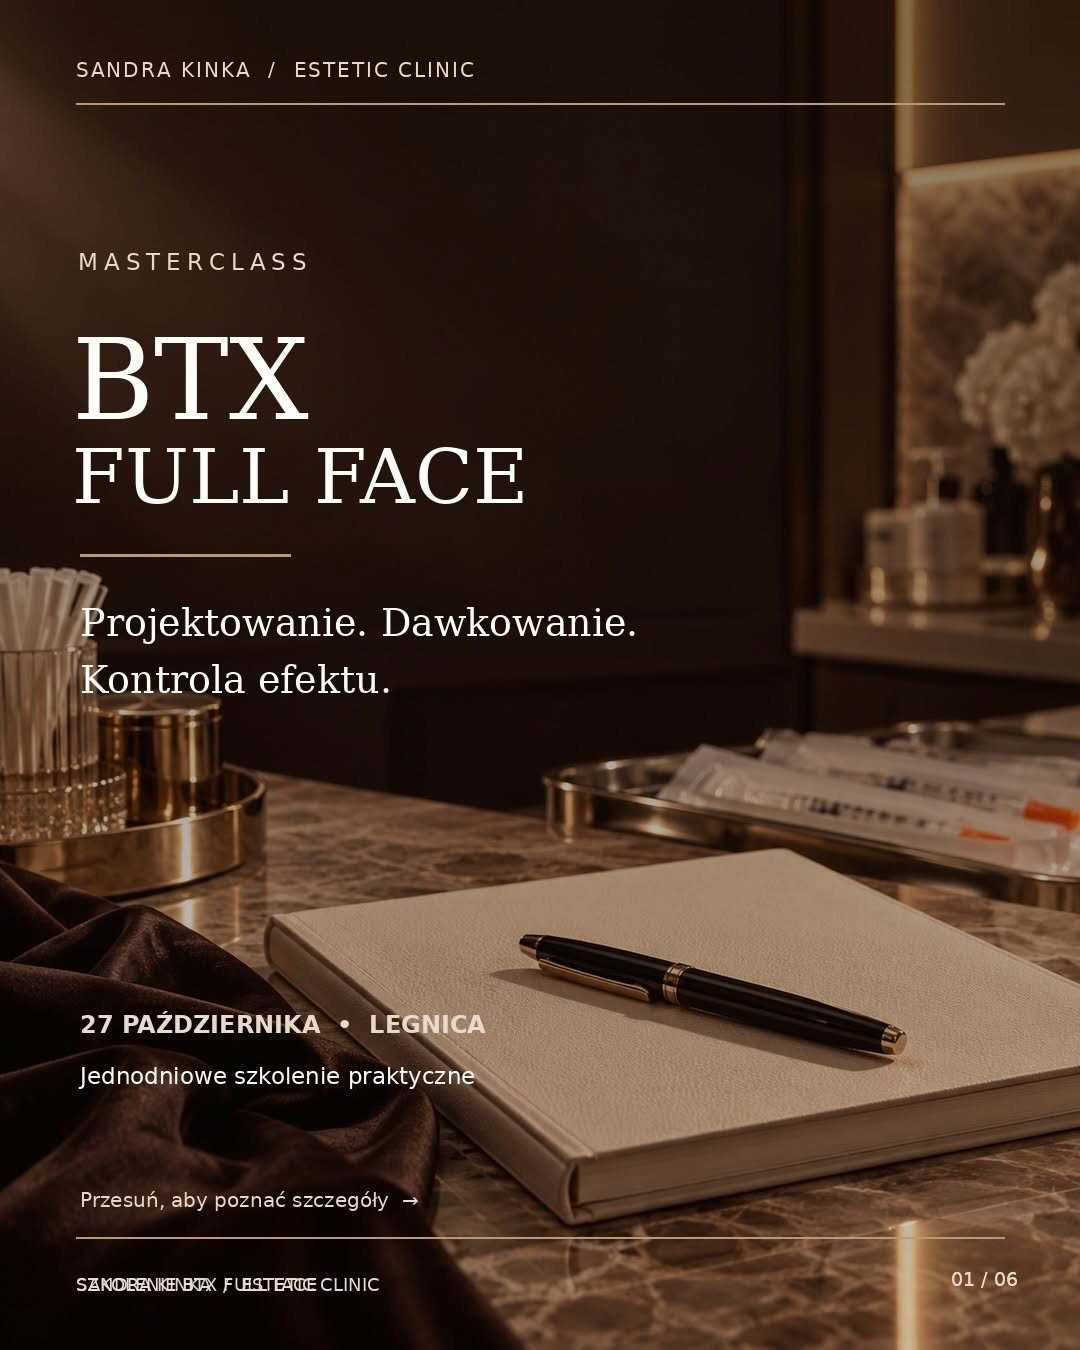
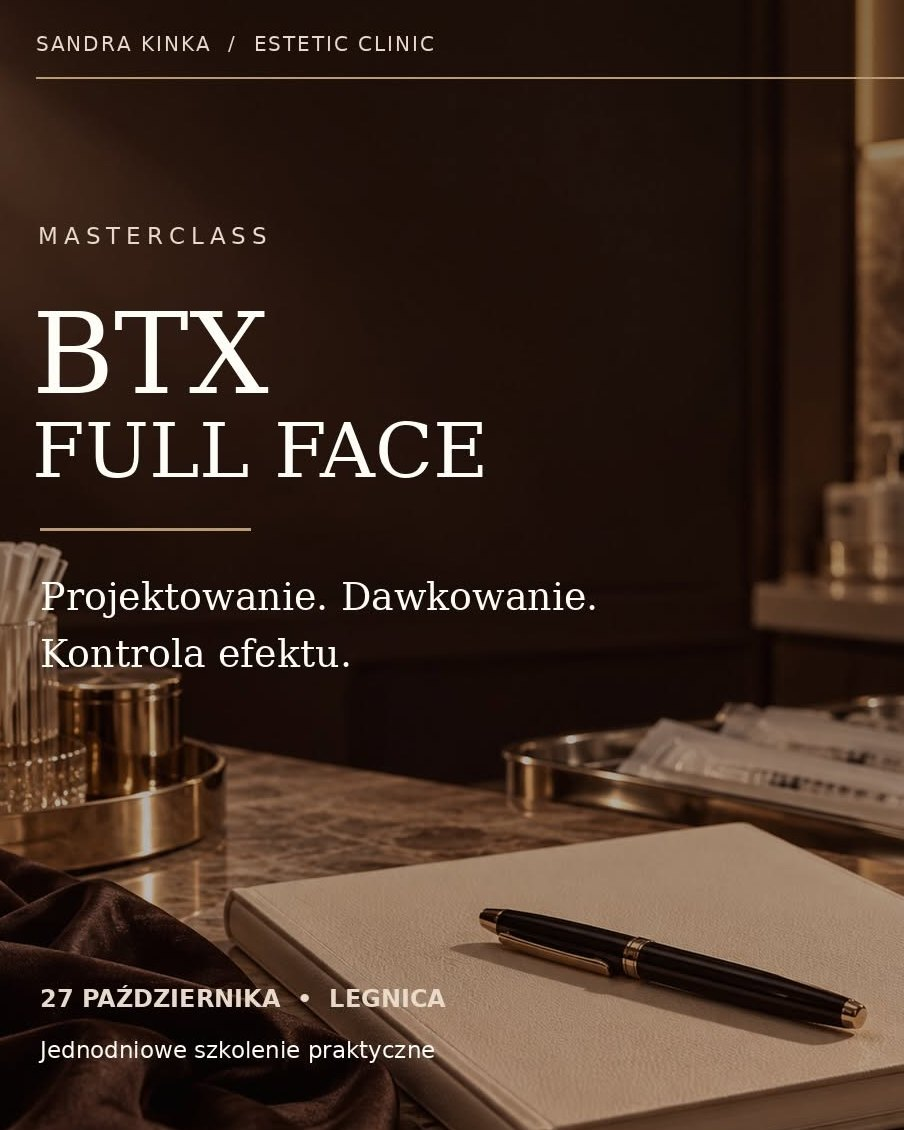
Start bez zdjęć, poprawiona grafika BTX, profesjonalne zdjęcie w przebiegu szkolenia

diff --git a/index.html b/index.html
@@ -157,9 +157,16 @@ section{padding:64px 0}
 .big-title{font-size:clamp(3.1rem,13.5vw,8.2rem);font-weight:400;line-height:.92;letter-spacing:-.03em}
 .big-title .l2{display:block;font-style:italic;font-weight:400;color:var(--milk);padding-left:.55em}
 .s-lead{margin:24px 0 0;font-size:1.1rem;max-width:31em}
-.s-photos{display:grid;grid-template-columns:1fr .66fr;gap:14px;align-items:end;padding:0 12px 12px 0}
-.s-photos .p1{aspect-ratio:4/5;border-radius:2px;box-shadow:12px 12px 0 -1px var(--cream), 12px 12px 0 0 var(--brass)}
-.s-photos .p2{aspect-ratio:3/4;border-radius:2px;margin-bottom:-12px}
+.s-emblem{position:relative;margin:0 12px 12px 0;max-width:460px;width:calc(100% - 12px);justify-self:start;display:flex;flex-direction:column;align-items:center;justify-content:center;gap:24px;padding:48px 36px 46px;border-radius:2px;overflow:hidden;isolation:isolate;text-align:center;
+  background:linear-gradient(118deg, rgba(255,255,255,0) 30%, rgba(255,250,240,.55) 46%, rgba(255,255,255,0) 62%),radial-gradient(120% 90% at 50% 38%, #F4EADB 0%, #E8DAC6 55%, #D6C1A3 100%);
+  box-shadow:12px 12px 0 -1px var(--cream), 12px 12px 0 0 var(--brass)}
+.s-emblem::before{content:"";position:absolute;inset:14px;border:1px solid rgba(168,137,79,.45);border-radius:1px;pointer-events:none;z-index:-1}
+.s-emblem::after{content:"SK";position:absolute;right:-.06em;bottom:-.28em;font-family:var(--display);font-style:italic;font-size:15rem;line-height:1;color:rgba(122,86,65,.055);pointer-events:none;z-index:-2}
+.s-emblem .em-logo{width:min(58%,250px);aspect-ratio:1/1;border-radius:50%;object-fit:cover;box-shadow:0 18px 40px -14px rgba(62,42,32,.55), 0 0 0 1px rgba(168,137,79,.35)}
+.s-emblem figcaption{display:grid;justify-items:center;gap:12px}
+.s-emblem .em-k{font-size:.7rem;letter-spacing:.22em;line-height:1.7;max-width:22em;text-transform:uppercase;font-weight:600;color:var(--brass-ink)}
+.s-emblem .em-rule{width:48px;height:1px;background:var(--brass)}
+.s-emblem .em-t{font-family:var(--display);font-style:italic;font-size:1.35rem;text-wrap:balance;line-height:1.15;color:var(--choc)}
 .today-line{display:inline-flex;align-items:center;gap:10px;margin-top:22px;font-size:.92rem;color:var(--milk)}
 .today-line::before{content:"";width:8px;height:8px;border-radius:50%;background:var(--sand);flex:none}
 .today-line.open::before{background:#6E8B4E;box-shadow:0 0 0 4px rgba(110,139,78,.18)}
@@ -469,6 +476,8 @@ footer a{color:#E9D9B6}
   .brand{height:72px}
   .s-hero{padding:64px 0 88px}
   .s-grid{grid-template-columns:7fr 5fr;gap:64px;align-items:end}
+  .s-emblem{aspect-ratio:4/5;max-width:none;width:auto;justify-self:stretch;gap:30px;padding:40px 48px}
+  .s-emblem .em-t{font-size:1.6rem}
   .doors{padding-bottom:96px}
   .doors-grid{grid-template-columns:7fr 5fr;gap:20px}
   .dcard{padding:40px 36px 32px;min-height:440px}
@@ -588,10 +597,14 @@ footer a{color:#E9D9B6}
         </div>
         <p class="today-line" data-today></p>
       </div>
-      <div class="s-photos">
-        <figure class="ph p1"><img src="img/start_1.jpg" alt="Sandra Kinka w gabinecie Estetic Clinic" loading="eager" onerror="this.classList.add('x')"></figure>
-        <figure class="ph p2"><img src="img/start_2.jpg" alt="Gabinet Estetic Clinic w Legnicy" loading="lazy" onerror="this.classList.add('x')"></figure>
-      </div>
+      <figure class="s-emblem">
+        <img class="em-logo" src="img/start_logo.jpg" alt="Logo Estetic Clinic Sandra Kinka" loading="eager">
+        <figcaption>
+          <span class="em-k">Kosmetologia i medycyna estetyczna</span>
+          <span class="em-rule" aria-hidden="true"></span>
+          <span class="em-t">Zabiegi w Legnicy<br>i szkolenia dla kosmetologów</span>
+        </figcaption>
+      </figure>
     </div>
   </section>
 
@@ -670,7 +683,7 @@ footer a{color:#E9D9B6}
           <p class="hero-sub">Szkolenia z medycyny estetycznej dla kosmetologów w Legnicy. Prowadzę je sama, w moim gabinecie: teoria, a potem praca na modelkach.</p>
         </div>
         <div class="hero-grid">
-          <figure class="ph hero-photo"><img src="img/szkolenie_1.jpg" alt="Szkolenie w Estetic Clinic, kursantki przy pracy" loading="lazy" onerror="this.classList.add('x')"></figure>
+          <figure class="ph hero-photo"><img src="img/szkolenie_1.jpg" alt="Masterclass BTX Full Face, 27 października, Legnica" loading="lazy" onerror="this.classList.add('x')"></figure>
           <div>
             <nav class="contents" aria-label="Spis szkoleń">
               <div class="contents-cap"><span>Spis szkoleń</span><span>cena</span></div>
@@ -733,7 +746,7 @@ footer a{color:#E9D9B6}
             <p>Dokumentacja i aspekty prawne, anatomia i punkty wkłucia, preparaty i dawkowanie, kwalifikacja pacjentki, działania niepożądane i powikłania.</p>
           </li>
           <li>
-            <figure class="ph"><img src="img/szkolenie_3.jpg" alt="Praktyka na modelkach podczas szkolenia" loading="lazy" onerror="this.classList.add('x')"></figure>
+            <figure class="ph"><img src="img/szkolenie_3.jpg" alt="Zabieg wykonywany w rękawiczkach na pacjentce w gabinecie" loading="lazy" onerror="this.classList.add('x')"></figure>
             <h2>Praktyka na modelkach</h2>
             <p>Wykonujesz zabiegi samodzielnie, a ja jestem obok przy każdej modelce. Liczbę modelek podaję przy szkoleniach, gdzie jest ustalona.</p>
           </li>
